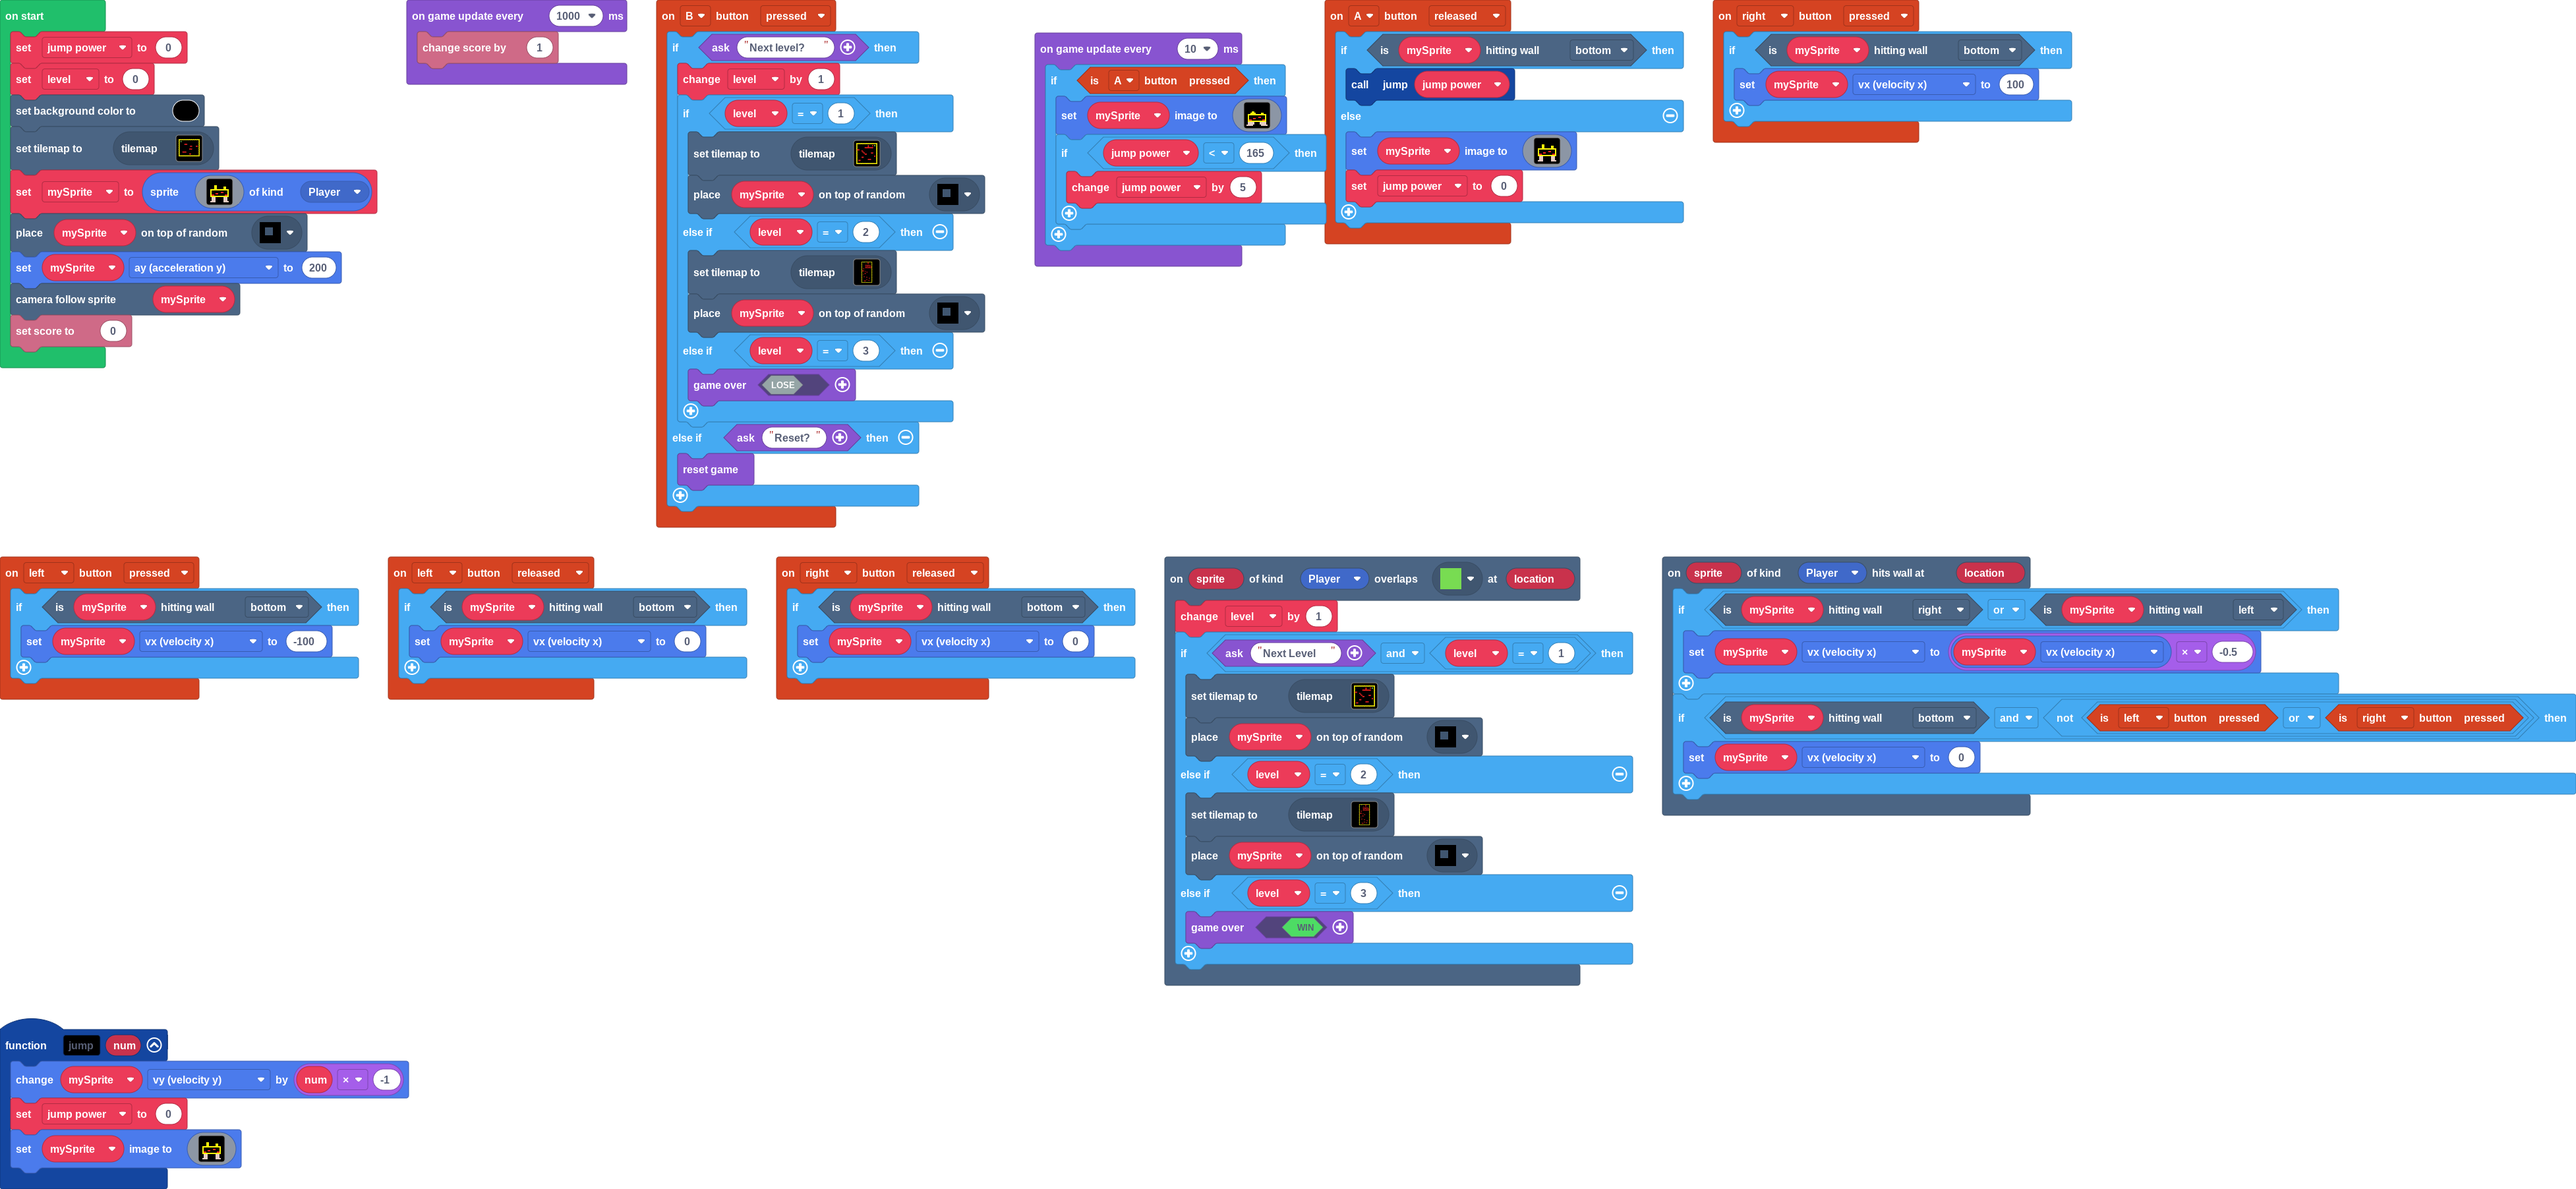
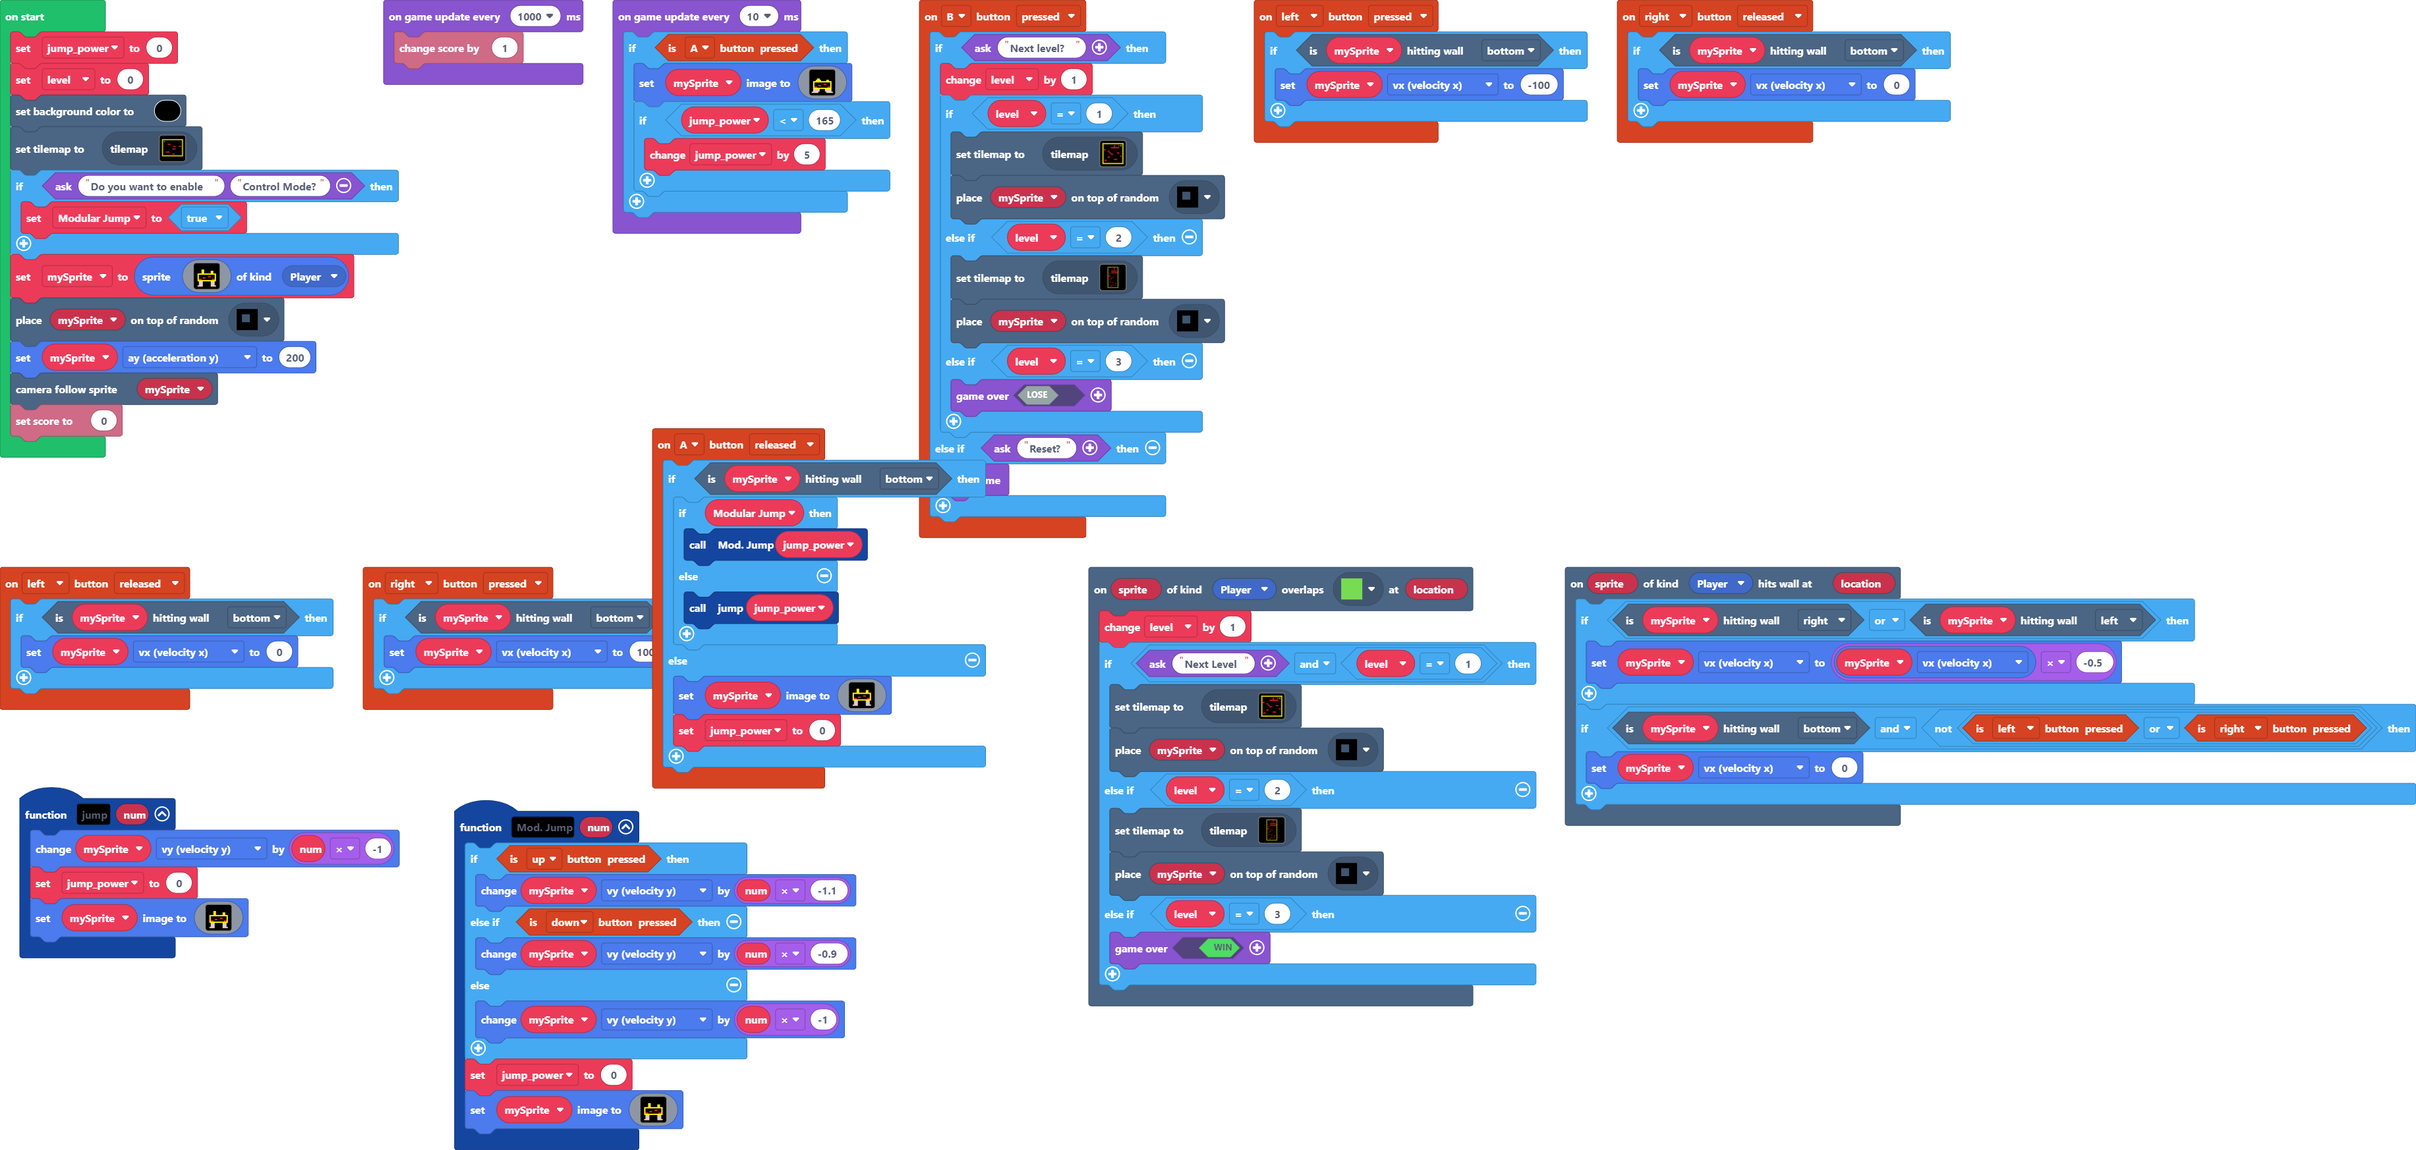
Update main.blocks, main.ts

diff --git a/main.ts b/main.ts
@@ -49,6 +49,34 @@ controller.left.onEvent(ControllerButtonEvent.Released, function () {
         mySprite.vx = 0
     }
 })
+function Mod_Jump (num: number) {
+    if (controller.up.isPressed()) {
+        mySprite.vy += num * -1.1
+    } else if (controller.down.isPressed()) {
+        mySprite.vy += num * -0.9
+    } else {
+        mySprite.vy += num * -1
+    }
+    jump_power = 0
+    mySprite.setImage(img`
+        . . . . . . . . . . . . . . . . 
+        . . . . . . . . . . . . . . . . 
+        . . . . . . . . . . . . . . . . 
+        . . . . 5 5 . . . . . . . . . . 
+        . . . . 5 5 . . . . . 5 5 . . . 
+        . . . . 5 5 . . . . . 5 5 . . . 
+        . 5 5 5 5 5 5 5 5 5 5 5 5 5 5 . 
+        . 5 f f f f f f f f f f f f 5 . 
+        . 5 f f f f f f f 2 2 f f f 5 . 
+        . 5 f f f 2 2 f f f f f f f 5 . 
+        . 5 2 2 f f f f f f f f 2 2 5 . 
+        . 5 5 5 5 5 5 5 5 5 5 5 5 5 5 . 
+        . . d d d . . . . . . d d d . . 
+        . . d d d . . . . . . d d d . . 
+        . . d d d . . . . . . d d d . . 
+        . d d d d . . . . . . d d d d . 
+        `)
+}
 controller.right.onEvent(ControllerButtonEvent.Pressed, function () {
     if (mySprite.isHittingTile(CollisionDirection.Bottom)) {
         mySprite.vx = 100
@@ -56,7 +84,11 @@ controller.right.onEvent(ControllerButtonEvent.Pressed, function () {
 })
 controller.A.onEvent(ControllerButtonEvent.Released, function () {
     if (mySprite.isHittingTile(CollisionDirection.Bottom)) {
-        jump(jump_power)
+        if (Modular_Jump) {
+            Mod_Jump(jump_power)
+        } else {
+            jump(jump_power)
+        }
     } else {
         mySprite.setImage(img`
             . . . . . . . . . . . . . . . . 
@@ -102,12 +134,16 @@ function jump (num: number) {
         `)
 }
 let mySprite: Sprite = null
+let Modular_Jump = false
 let level = 0
 let jump_power = 0
 jump_power = 0
 level = 0
 scene.setBackgroundColor(15)
 tiles.setCurrentTilemap(tilemap`level3`)
+if (game.ask("Do you want to enable", "Control Mode?")) {
+    Modular_Jump = true
+}
 mySprite = sprites.create(img`
     . . . . . . . . . . . . . . . . 
     . . . . . . . . . . . . . . . . 
